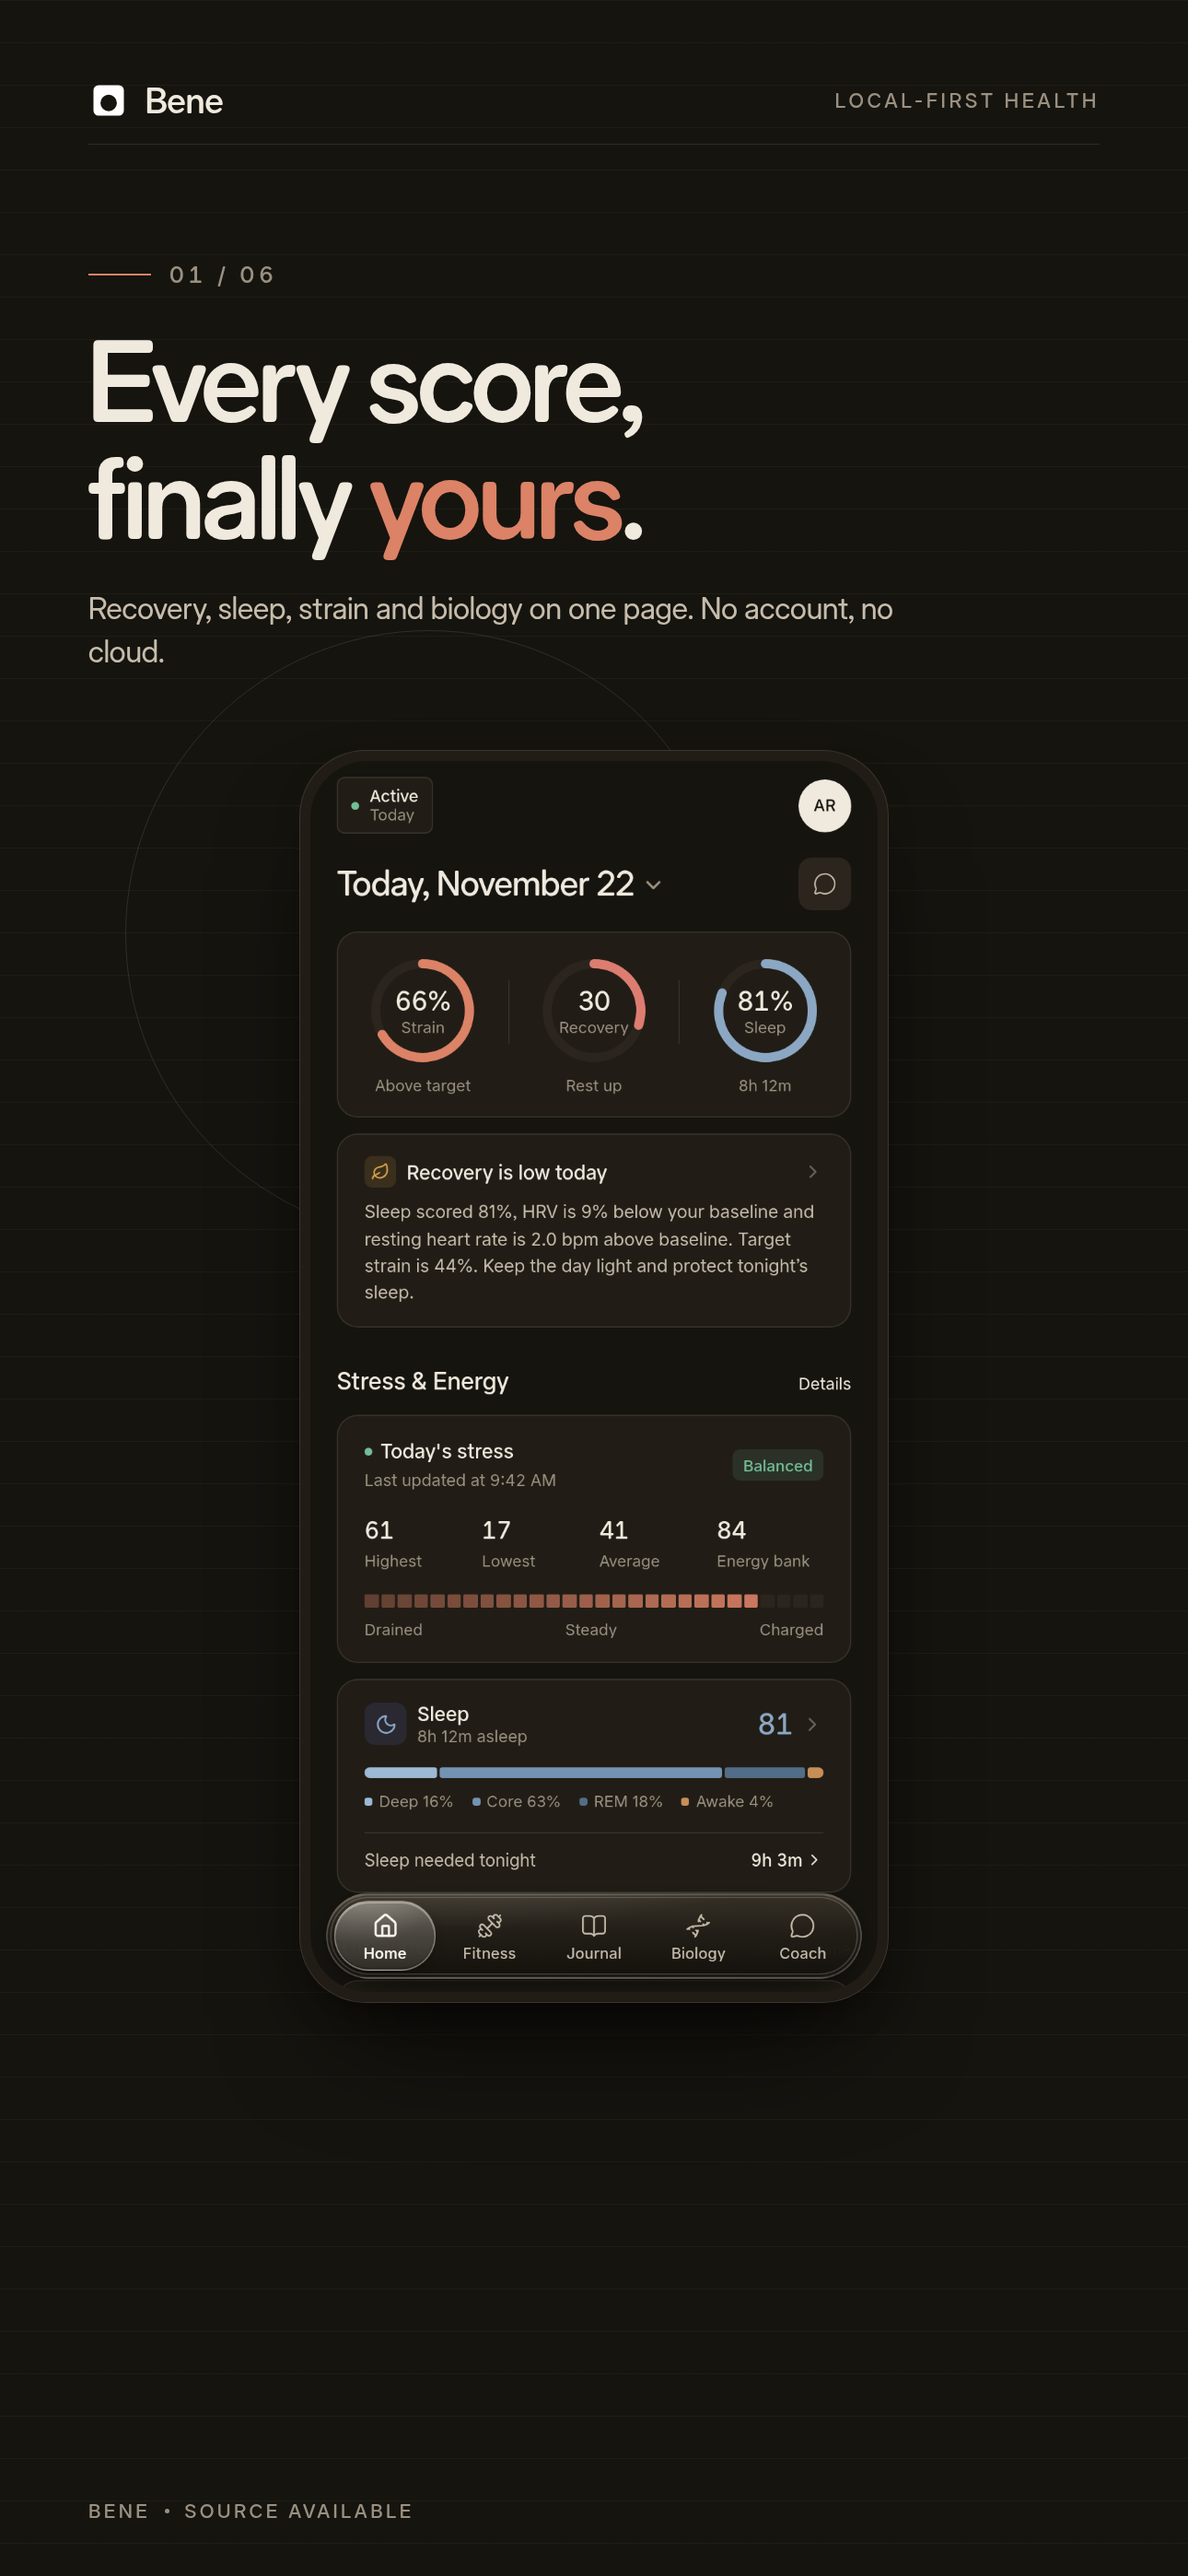
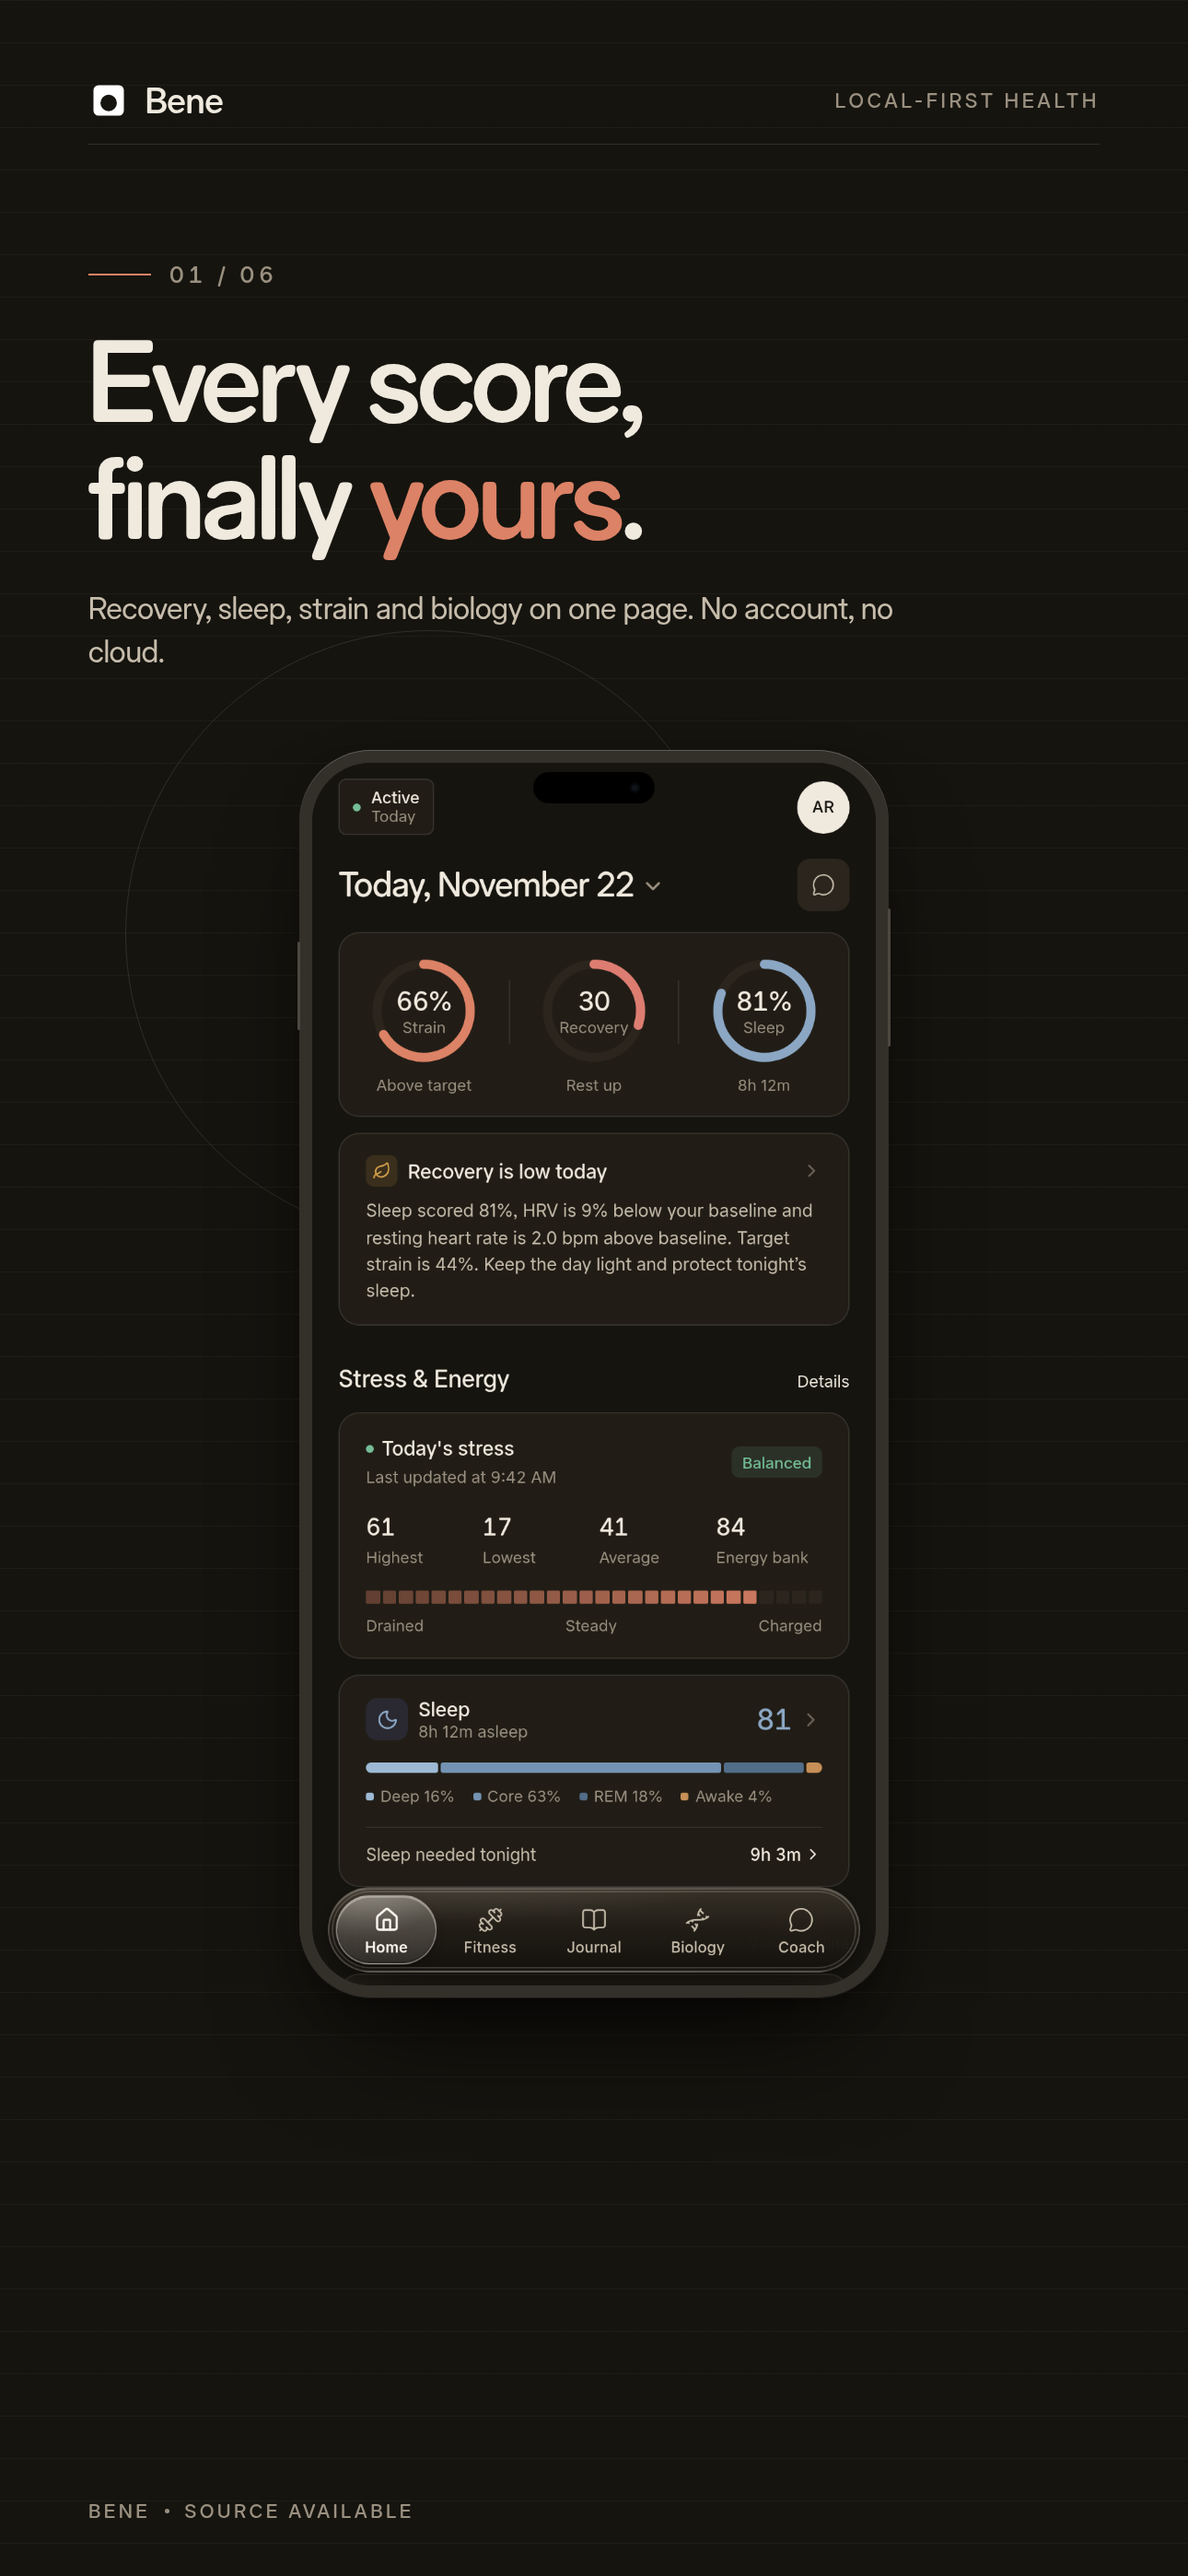
Lay the store slides out in one row and draw a real device frame (#31)
The README preview stacked the six slides vertically into a 352 x 4578 strip,
so the reader scrolled past one slide at a time and never saw the deck as a
set. Six slides at 146 px with an 8 px gap now sit in a single 876 px row,
inside the width GitHub actually renders, and the strip is captured at 2x so
the tiles stay sharp.

The device was a bare rounded rectangle in a colour close to the page, which
read as a placeholder panel rather than a phone. It now has a bezel with its
own tone, side keys, and a camera cutout; the dark theme lifts the bezel to
graphite because a black frame vanished against #16140f.

Each row cell is a real box of the scaled size with the slide drawn at full
size inside it. Scaling alone left the cell at its unscaled height and
collapsed the row into a mostly black image.

Scope: README, the store captures and the generator only.

diff --git a/README.md b/README.md
@@ -39,12 +39,12 @@ Most health apps put the interpretation of your data behind a subscription and a
 
 ## Screens
 
-Six slides, in the light and the dark theme. Every capture shown is a real screen from the app.
+Six slides, side by side, in the light and the dark theme. Every capture shown is a real screen from the app.
 
 <p align="center">
   <picture>
     <source media="(prefers-color-scheme: dark)" srcset="docs/screenshots/store/preview-dark.png">
-    <img src="docs/screenshots/store/preview-light.png" alt="Six Bene screens: scores, on-device data, one model, score breakdowns, a file as your account, and the feature index" width="100%">
+    <img src="docs/screenshots/store/preview-light.png" alt="Six Bene screens side by side: scores, on-device data, one model, score breakdowns, a file as your account, and the feature index" width="100%">
   </picture>
 </p>
 
